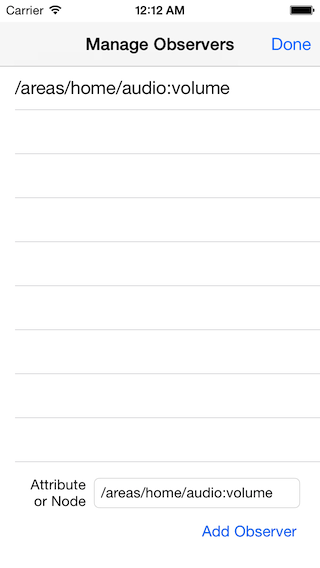
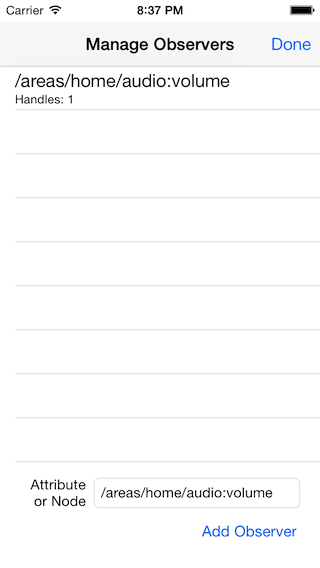
(ObserverViewController) Added description for handles. (README) Added description of the demo app.

Changed region(s): [[0.0312, 0.1197, 0.7188, 0.1796], [0.4062, 0.0, 0.5938, 0.0299]]

diff --git a/gom-client-objc/ObserverViewController.m b/gom-client-objc/ObserverViewController.m
@@ -70,7 +70,7 @@
     NSString *path = binding.subscriptionUri;
     
     cell.textLabel.text = path;
-    cell.detailTextLabel.text = [NSString stringWithFormat:@"%lu", (unsigned long)binding.handles.count];
+    cell.detailTextLabel.text = [NSString stringWithFormat:@"Handles: %lu", (unsigned long)binding.handles.count];
     return cell;
 }
 

diff --git a/README.md b/README.md
@@ -318,30 +318,46 @@ Fundamental errors are returned to the delegate through the GOMClientDelegate me
     ```
 
 ## Demo app
-Setting the GOM root address
+Setting the GOM root address:
 
-![Setting the GOM root](https://github.com/artcom/gom-client-objc/raw/master/Documentation/images/screenshots/2_settings.png)
+![Setting the GOM root](https://github.com/artcom/gom-client-objc/raw/master/Documentation/images/screenshots/1_settings.png)
 
-Startup
+Startup - The demo app offers input fields for GOM node or attriute and a value. Four buttons below represent the commands you can send to the GOM:
 
-![Startup](https://github.com/artcom/gom-client-objc/raw/master/Documentation/images/screenshots/3_entry.png)
+ * Retrieve
+ * Create
+ * Update
+ * Del(ete)
 
-Accessing a GOM value
 
-![Accessing GOM values](https://github.com/artcom/gom-client-objc/raw/master/Documentation/images/screenshots/4_accessing_gom_values.png)
+ All responses and GNPs from the GOM will appear in the output field above:
 
-Adding an observer
+![Startup](https://github.com/artcom/gom-client-objc/raw/master/Documentation/images/screenshots/2_entry.png)
+
+
+Accessing a GOM value - just enter the path to the node or attribute and tap 'Retrieve':
+
+![Accessing GOM values](https://github.com/artcom/gom-client-objc/raw/master/Documentation/images/screenshots/3_accessing_gom_values.png)
+
+
+![Retrieving GOM values](https://github.com/artcom/gom-client-objc/raw/master/Documentation/images/screenshots/4_retrieving_gom_values.png)
+
+
+Adding an observer - Tap 'Manage Observers' to open the observer management view. Enter the path to the node or attribute and tap 'Add Observer':
 
 ![Adding a GOM observer](https://github.com/artcom/gom-client-objc/raw/master/Documentation/images/screenshots/5_adding_observer.png)
 
-List with observers
+
+List with observers - Registered observers will appear in the table above:
 
 ![GOM observer added](https://github.com/artcom/gom-client-objc/raw/master/Documentation/images/screenshots/6_added_observer.png)
 
-Deleting an observer
+
+Deleting an observer - Just swipe to the left and a 'Delete' button appears:
 
 ![Deleting a GOM observer](https://github.com/artcom/gom-client-objc/raw/master/Documentation/images/screenshots/7_deleting_observer.png)
 
-Receiving GNP data
+
+Receiving GNP data - When ever a GOM value changes the Demo app will receive and display the GNP data:
 
 ![Displaying received GNP data](https://github.com/artcom/gom-client-objc/raw/master/Documentation/images/screenshots/8_receiving_GNP_data.png)
